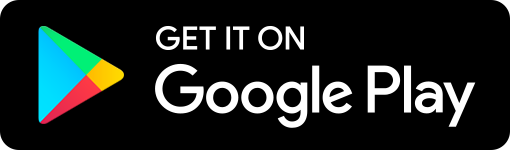
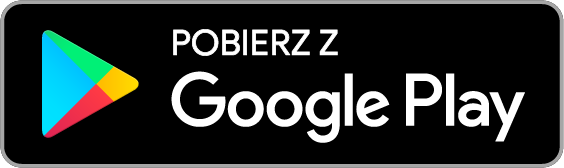
Add Huawei AppGallery and use polish badges

diff --git a/_layouts/default.html b/_layouts/default.html
@@ -45,8 +45,8 @@
                         {% if site.data.app.download.playstore %}
                             <a class="playStoreLink" href="{{ site.data.app.download.playstore }}"><img class="playStore" src="{{ 'assets/img/playstore.png' | relative_url }}"></a>
                         {% endif %}
-                        {% if site.data.app.download.appstore %}
-                            <a class="appStoreLink" href="{{ site.data.app.download.appstore }}"><img class="appStore" src="{{ 'assets/img/appstore.png' | relative_url }}"></a>
+                        {% if site.data.app.download.appgallery %}
+                            <a class="appGalleryLink" href="{{ site.data.app.download.appgallery }}"><img class="appGallery" src="{{ 'assets/img/appgallery.png' | relative_url }}"></a>
                         {% endif %}
                     </div>
                 </div>

diff --git a/_sass/layout.scss b/_sass/layout.scss
@@ -370,7 +370,7 @@ nav > ul li a:active {
   
 } 
 
-.appStore {
+.appGallery {
   height: 75px;
 }
 
